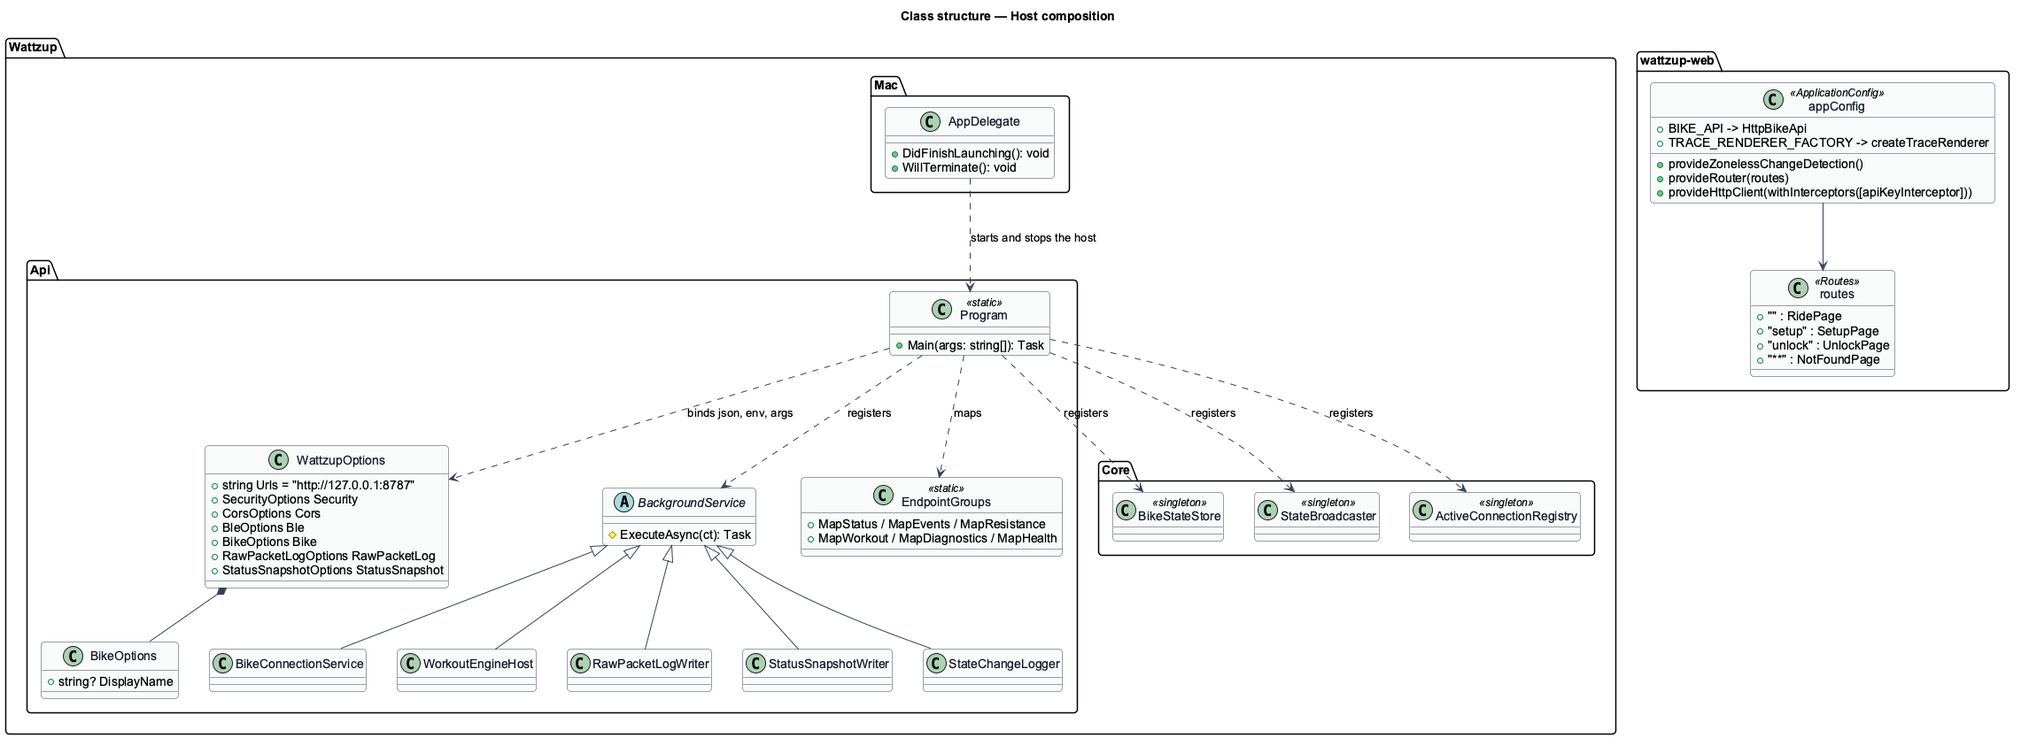
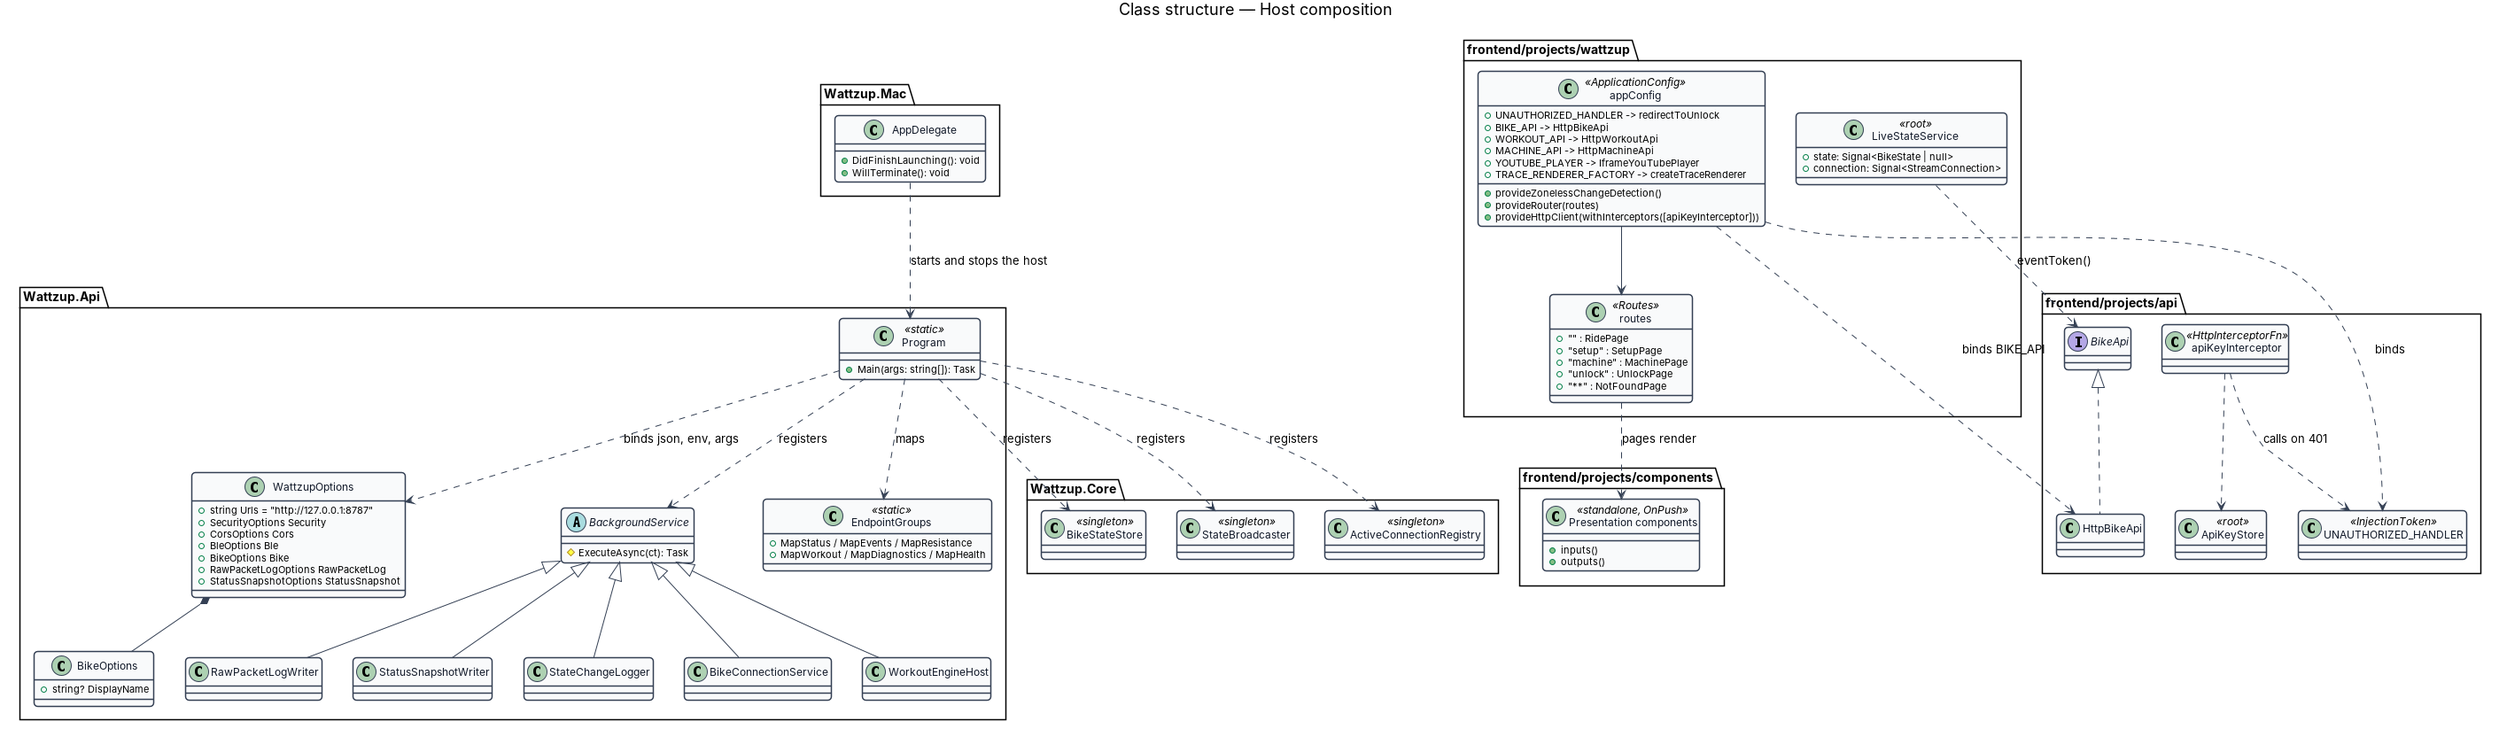
Docs: L2-044 criterion 6, ADR 0013 and the workspace design with its component mapping
Claude-Session: https://claude.ai/code/session_01LjZiMsSLHQhgqTqbDsDnzS

diff --git a/docs/detailed-designs/platform/host-and-structure/README.md b/docs/detailed-designs/platform/host-and-structure/README.md
@@ -29,9 +29,12 @@ wattzup/
 │   │   └── Wattzup.Core/  Wattzup.Api/  Wattzup.Mac/
 │   └── tests/
 │       └── Wattzup.Protocol.Tests/  Wattzup.Core.Tests/  Wattzup.Api.AcceptanceTests/
-├── frontend/
-│   ├── src/app/{api,core,dashboard}/, src/app/app.config.ts
-│   ├── e2e/ (fixtures/, pages/, specs)
+├── frontend/                    one Angular workspace (ADR 0013)
+│   ├── projects/
+│   │   ├── components/src/{lib,styles}/, public-api.ts   presentation components, SCSS partials
+│   │   ├── api/src/{lib,generated}/, public-api.ts        types, contracts, tokens, HTTP, interceptor
+│   │   └── wattzup/src/app/{core,dashboard}/, app.config.ts   pages, dialogs, services, helpers
+│   ├── e2e/ (fixtures/, pages/, specs), scripts/, public/
 │   └── proxy.conf.json
 └── docs/
 ```
@@ -81,23 +84,34 @@ Every project builds with the plain .NET SDK (ADR 0008). CI builds every project
   This realises L2-039, recorded in `discover-and-connect-bike`.
 - **Static hosting** — `UseStaticFiles` serves `wwwroot`, the Angular `dist/wattzup/browser` output copied at publish. The `AppShell` middleware, at the end of the pipeline, handles requests no endpoint matched: it serves `index.html` for `/` and every client route, excluding `/api`, `/health`, `/openapi` and paths with a file extension (L2-044). It is middleware rather than `MapFallbackToFile` because a catch-all fallback endpoint would take part in routing and replace the 415 and 405 answers of known endpoints, and because `index.html` must be rewritten per response with the style nonce. An unknown `/api/*` path answers a 404 ProblemDetails, while an unknown client route loads the app, which shows the not-found page (L2-056). `index.html` is served with the per-response CSP style nonce described in `secure-api`.
 
-Angular application `wattzup` in `frontend/` (L2-044):
+Angular workspace in `frontend/` (L2-044, ADR 0013). One `angular.json` holds three projects, all under `projects/`, generated with the Angular CLI:
 
+| Project | Type | Holds | May depend on |
+|---|---|---|---|
+| `components` | library, prefix `wz` | Every presentation component, one folder each under `src/lib/`, named as the design-system component it renders, and the design-system SCSS partials under `src/styles/design-system/` | `@wattzup/api`, for types only |
+| `api` | library, prefix `wz` | The generated OpenAPI types (`src/generated/schema.d.ts`), the type aliases (`api-types.ts`), the contracts `BikeApi`, `WorkoutApi`, `MachineApi` with their tokens `BIKE_API`, `WORKOUT_API`, `MACHINE_API`, the HTTP implementations (`http-api.ts`), `apiKeyInterceptor` with the `UNAUTHORIZED_HANDLER` token, `ApiKeyStore`, `SafeStorage`, and the event-stream type `StreamConnection` | nothing in the workspace |
+| `wattzup` | application, prefix `wz` | Pages, dialogs and orchestrating components under `src/app/dashboard/`; services, stores and pure helpers under `src/app/core/`; routes and `app.config.ts`; `main.ts`, `index.html`, `tokens.css`, `styles.scss` | `@wattzup/components`, `@wattzup/api` |
+
+- **Path aliases** — `frontend/tsconfig.json` maps `@wattzup/components` and `@wattzup/api` to each library's `src/public-api.ts`. The app compiles library source directly, so `ng serve`, `ng test` and tree-shaking need no library build. The libraries are not published and have no `ng-packagr` target.
+- **Dependency direction** — an ESLint `no-restricted-imports` rule in `frontend/eslint.config.js` rejects an import of the app from either library, of `@wattzup/components` from `api`, and a value import of `@wattzup/api` from `components`. Relative imports never cross a project.
+- **Presentation components** — standalone, `ChangeDetectionStrategy.OnPush`, inputs and outputs only. A component injects only framework services (`ElementRef`, `Injector`, the CDK `DialogRef`), never an app service, an API token or the router. The type of each input is exported with the component from `public-api.ts`; the app's helpers that compute it import it from `@wattzup/components`.
 - Current Angular version, standalone components only, `ChangeDetectionStrategy.OnPush` everywhere, signals for state, and zoneless change detection (`provideZonelessChangeDetection`).
-- Each component is `name.ts` + `name.html` + `name.scss` with `templateUrl` and `styleUrl`, selector `wz-<name>`, in its own folder under `src/app/dashboard/`. Each stylesheet is one encapsulated BEM block named as in the mocks.
-- **`app.config.ts`** — composition root.
-  - It provides the router with the routes `/` (`RidePage`), `/setup` (workouts), `/unlock` (`UnlockPage`) and `**` (`NotFoundPage`).
-  - It provides `HttpClient` with `withInterceptors([apiKeyInterceptor])`, the `BIKE_API` token bound to `HttpBikeApi`, and `TRACE_RENDERER_FACTORY` bound to `createTraceRenderer`.
-- `src/app/core/` holds the services and pure helpers with their unit tests:
-  - live state and API: `LiveStateService`, `BikeApi` with its `BIKE_API` token, `HttpBikeApi`, `ApiKeyStore`, `apiKeyInterceptor`, `safeReturnUrl`;
+- Each component is `name.ts` + `name.html` + `name.scss` with `templateUrl` and `styleUrl`, selector `wz-<name>`, in its own folder. Each stylesheet is one encapsulated BEM block named as in the mocks. Every project's `stylePreprocessorOptions.includePaths` is `projects/components/src/styles`, so a stylesheet reads a partial as `@use 'design-system/btn'`.
+- **`app.config.ts`** — the composition root, in the app and nowhere else.
+  - It provides the router with the routes `/` (`RidePage`), `/setup` (workouts), `/machine` (`MachinePage`), `/unlock` (`UnlockPage`) and `**` (`NotFoundPage`).
+  - It provides `HttpClient` with `withInterceptors([apiKeyInterceptor])`, binds `UNAUTHORIZED_HANDLER` to the app's redirect to `/unlock?returnUrl=…` (L2-055), and binds `BIKE_API`, `WORKOUT_API` and `MACHINE_API` to `HttpBikeApi`, `HttpWorkoutApi` and `HttpMachineApi`, and `YOUTUBE_PLAYER` to `IframeYouTubePlayer`.
+- `projects/wattzup/src/app/core/` holds the services and pure helpers with their unit tests:
+  - live state: `LiveStateService`, the one owner of the `EventSource` and its reconnect policy (L2-044 criterion 2), and `safeReturnUrl`;
   - dialogs and notifications: `DialogLauncher`, `ConnectionBannerService`, `ToastService`, `toastQueue`, `diagnosticsReport`;
-  - dashboard helpers: `connectionStatus`, `rideViewState`, `powerDelta`, `metricFormat`, `estimateWatts`;
+  - dashboard helpers: `connectionStatus`, `rideViewState`, `powerDelta`, `metricFormat`, `estimateWatts`, `commandLogEntries`, `metricItems`;
   - the trace: `FrameScheduler`, `MotionPreference`, `TraceRenderer`, `createTraceRenderer`, `TraceRendererStatus`, `traceGeometry`, `PowerTraceStore`;
   - the workout helpers named in the workouts designs.
-- `src/app/api/` holds types generated from `/openapi/v1.json` by `openapi-typescript`. It is never hand-edited. CI regenerates it and fails on a diff.
+- `projects/api/src/generated/schema.d.ts` is generated from `/openapi/v1.json` by `openapi-typescript` (`npm run generate:api`). It is never hand-edited. CI regenerates it and fails on a diff. `api-types.ts` is the only module that names its types.
+- **Unit tests** — each project has a `test` target (`@angular/build:unit-test`, Vitest, jsdom). Specs sit beside their code. `npm test` runs `ng test`, which runs all three targets.
+- **Build output** — `npm run build` runs `ng build wattzup` to `frontend/dist/wattzup/browser`, then `scripts/check-bundle-size.mjs`. `npm run build:api` copies that folder to `backend/src/Wattzup.Api/wwwroot`.
 - `proxy.conf.json` forwards `/api` to `127.0.0.1:8787` during `ng serve`.
 - **Fonts** (ADR 0005) — Inter, Archivo and JetBrains Mono ship as Latin-subset WOFF2 variable fonts under `frontend/public/fonts/`, with their SIL Open Font License 1.1 files beside them. The global foundations declare them with `@font-face` and `font-display: swap`. No font is loaded from a CDN, which the `font-src 'self'` policy enforces.
-- **Budgets** — `angular.json` sets the `initial` budget to an error at 300 KB, and CI measures the gzipped size with `gzip -9` (L2-044). Fonts count against the build size but not the JavaScript budget.
+- **Budgets** — `scripts/check-bundle-size.mjs` fails `npm run build` when the initial files listed in `index.html` exceed 300 KB gzipped (L2-044 criterion 5). Angular's own raw-byte budgets in `angular.json` remain as an early warning. Fonts count against the build size but not the JavaScript budget.
 - **Global styles** — foundations only: tokens from `docs/design-system/tokens/`, `@font-face`, reset and utilities. Components read tokens by role, never by hex value.
 
 ## Requirements
@@ -138,3 +152,58 @@ The projects form an inward-pointing dependency graph with `Wattzup.Api` at the 
 The host binds, starts background services without blocking, serves the SPA and API, and on stop shuts everything down within 5 s (L2-042, L2-044).
 
 ![Sequence diagram for host lifecycle](diagrams/sequence-host-lifecycle.png)
+
+## Appendix: component mapping (ADR 0013)
+
+Every folder that was in `frontend/src/app/dashboard/`, its project and its name there. *Part of* means the design system documents it inside another component's page; it keeps its own name and BEM block. *Lifted* names the value the parent now computes and passes in, so the component injects nothing of the app's.
+
+| Former folder | Project | Name | Design-system component | Notes |
+|---|---|---|---|---|
+| `alert` | `components` | `alert` | Alert and banner | |
+| `auth-card` | `components` | `auth-card` | Page layout (part) | The centred single-card shell of `/unlock` |
+| `cmd-log` | `components` | `command-log` | Command log | Lifted: the title and the entries (`commandLogEntries`) |
+| `dialog-shell` | `components` | `dialog` | Dialog | Injects only the CDK `DialogRef` |
+| `effort-row` | `components` | `effort-row` | Effort row (page added) | Lifted: pace, incline and the step limits (`effortRowView`) |
+| `form-summary` | `components` | `form-summary` | Form layout (part) | The error summary |
+| `icon` | `components` | `icon` | Iconography (foundation) | |
+| `incline-control` | `components` | `incline-control` | Speed and incline control (part) | |
+| `level-control` | `components` | `level-control` | Level control | Owns `ResistanceView` and `ControlsState` |
+| `level-picker` | `components` | `level-picker` | Level picker | Brings its key and pointer helper `level-picker-input` and its spec |
+| `level-slider` | `components` | `slider` | Slider | |
+| `load-error` | `components` | `empty-state` | Empty state | The loading-failed variant (block `empty`) |
+| `machine-card` | `components` | `machine-card` | Machine card (page added) | The radio card of `/machine`; owns `MachineCardView` and `CardStatus` |
+| `main-view-tabs` | `components` | `main-view-tabs` | Video ride-along (part) | Block `view-switch` |
+| `metrics-strip` | `components` | `metric-list` | Metric list | Lifted: the metric items (`metricItems`) |
+| `mode-cards` | `components` | `radio-group` | Radio group (mode cards) | |
+| `num-stepper` | `components` | `number-stepper` | Number stepper | |
+| `phase-banner` | `components` | `phase-banner` | Step-change banner | Lifted: the banner and the announcement from `CueDirector` |
+| `plan-note` | `components` | `plan-note` | Level control, Speed and incline control (part) | |
+| `plan-strip` | `components` | `plan-strip` | Video ride-along (part) | Block `profile--strip`. Lifted: the strip (`stripOf`) |
+| `presets` | `components` | `presets` | Chip (part) | The preset chip row |
+| `quick-speeds` | `components` | `quick-speeds` | Chip (part) | Lifted: the speeds (`QUICK_SPEEDS`) |
+| `readout` | `components` | `readout` | Readout | |
+| `ride-clock` | `components` | `ride-clock` | Ride clock | Lifted: elapsed and total text from `CountdownService` |
+| `ride-preview` | `components` | `ride-profile` | Ride profile | Owns the `RidePreview` view type |
+| `set-list` | `components` | `set-list` | Set list | Lifted: the set lines, the stretch rows and `full` |
+| `signal-bars` | `components` | `signal-bars` | Machine card (part) | |
+| `speed-control` | `components` | `speed-control` | Speed and incline control | |
+| `status-line` | `components` | `status-line` | Status line | Lifted: the status (`connectionStatus`) and reduced motion |
+| `toast` | `components` | `toast` | Toast | Owns the `Toast` view type |
+| `toggles` | `components` | `switch` | Switch | |
+| `app-bar` | `wattzup` | `app-bar` | App bar | Injects `CueService`, `DialogLauncher`, `RideActions`, `ThemeService` |
+| `connection-banner` | `wattzup` | `connection-banner` | Alert and banner | Injects `ConnectionBannerService`, `LiveStateService` |
+| `interval` | `wattzup` | `interval` | Interval | Links to `/setup`; reads `CountdownService`, `CueDirector` |
+| `ride-overlay` | `wattzup` | `ride-overlay` | Overlay panel | Links to `/setup` |
+| `ride-trace` | `wattzup` | `ride-trace` | Power trace | Hosts the renderer; injects the trace stores and `TRACE_RENDERER_FACTORY` |
+| `ride-video` | `wattzup` | `ride-video` | Video ride-along | Injects `VideoSync` |
+| `video-link` | `wattzup` | `video-link` | Video ride-along | Injects `YOUTUBE_PLAYER` |
+| `toast-region` | `wattzup` | `toast-region` | Toast | Reads `ToastService` |
+| `diagnostics-dialog`, `edit-set-dialog`, `edit-stretch-dialog`, `end-ride-dialog`, `replace-ride-dialog` | `wattzup` | unchanged | Dialog | Orchestrating dialogs |
+| `machine-page`, `not-found-page`, `ride-page`, `setup-page`, `unlock-page` | `wattzup` | unchanged | Page layout | Routed pages |
+| `design-system/` (SCSS partials) | `components` | `src/styles/design-system/` | Foundations and partials | |
+
+## Open questions
+
+- Design-system components with no Angular component today (button, chip, link, badge, tooltip, skeleton, spinner, progress bar, description list) stay SCSS partials in `components`. Making them components is deferred.
+- `interval`, `ride-overlay`, `ride-trace`, `ride-video` and `app-bar` render design-system components but orchestrate; splitting each into an app container and a `components` part is deferred.
+- The libraries are not published and have no Storybook or gallery; deferred.

diff --git a/docs/adr/0013-angular-workspace-with-libraries.md b/docs/adr/0013-angular-workspace-with-libraries.md
@@ -1,0 +1,92 @@
+# 0013. An Angular workspace with `components`, `api` and `wattzup` projects
+
+- **Status:** Accepted
+- **Date:** 2026-11-17
+
+## Context
+
+`frontend/` was a single-project Angular workspace. The app `wattzup` sat at the workspace root,
+about 50 component folders shared `src/app/dashboard/` whether they were small presentation parts
+(`readout`, `num-stepper`, `toast`) or routed pages and orchestrating dialogs, and
+`src/app/core/` mixed the code that talks to the backend with services and pure helpers. Nothing
+kept a presentation component from injecting a store, nothing kept the API code from knowing a
+route, and the components bore no consistent relation to the design system they render
+(`docs/design-system/`).
+
+L2-044 criterion 6 now asks for one workspace of three projects: a `components` library of
+presentation components that match the design system, an `api` library for everything about
+talking to the backend, and the `wattzup` application for everything else. What the rider sees,
+the routes, the BEM classes, the bundle budget and the production output path do not change.
+
+## Decision
+
+**Three projects, generated by the Angular CLI, compiled from source by the application.**
+
+- **Project locations.** All three are siblings under the workspace's `newProjectRoot`:
+  `frontend/projects/components/`, `frontend/projects/api/` and `frontend/projects/wattzup/`. The
+  app moves out of the workspace root so no project is special and each has its own `src/`,
+  tsconfigs and `test` target, which is the layout `ng generate library` produces. Workspace-level
+  tooling stays at the workspace root: `e2e/`, `scripts/`, `public/` (the fonts and machine photos,
+  used by the app's `assets`), `proxy.conf.json` and the Playwright configs. The app's global
+  styles (`tokens.css`, `styles.scss`) move with it to `projects/wattzup/src/`.
+- **How the app consumes the libraries.** TypeScript path aliases in `frontend/tsconfig.json`,
+  `@wattzup/components` and `@wattzup/api`, point at each library's `src/public-api.ts`. The app
+  compiles library source directly, so `ng serve`, `ng test` and tree-shaking work with no separate
+  library build. The libraries are not published, so they have no `ng-packagr` build target and
+  the CLI's `ng-package.json` and `tsconfig.lib.prod.json` are removed; a library build that no
+  script runs would only rot. This departs from the generated library layout in that one respect;
+  publishing would need a new ADR.
+- **Dependency direction.** `wattzup` → `components`, `wattzup` → `api`, `components` → `api`
+  for types only (a component may name a contract type such as `Machine` in an input), `api` →
+  nothing in the workspace. No library imports the application. An ESLint
+  `no-restricted-imports` rule in `frontend/eslint.config.js` enforces the direction; it is lint,
+  not a test.
+- **What counts as presentation.** A component that renders a design-system component from inputs
+  and reports interactions through outputs. It injects only framework services (`ElementRef`,
+  `Injector`, the CDK `DialogRef`), never an app service, an API token or the router, and uses no
+  `routerLink`. Where a component injected an app service only to read a value
+  (`phase-banner`, `ride-clock`, `status-line`) or called an app helper only to format its inputs
+  (`command-log`, `metric-list`, `effort-row`, `plan-strip`, `set-list`, `quick-speeds`), the
+  parent computes the value with the same helper and passes it in. The type of an input belongs to
+  the component and is exported from `@wattzup/components`; app helpers that build it import it
+  from there. A component whose job is orchestration stays in the app even when the design
+  system names it: `app-bar`, `connection-banner`, `interval` (it links to `/setup` and reads the
+  countdown), `ride-overlay` (it links to `/setup`), `ride-trace` (the power trace's renderer host),
+  `ride-video` and `video-link` (the YouTube player), `toast-region`, the pages and the dialogs.
+- **Component names.** A component in `components` takes the name of the design-system component it
+  renders, in its TypeScript class, file, folder and `wz-` selector: `num-stepper` →
+  `number-stepper`, `cmd-log` → `command-log`, `mode-cards` → `radio-group`, `metrics-strip` →
+  `metric-list`, `ride-preview` → `ride-profile`, `level-slider` → `slider`, `toggles` → `switch`,
+  `dialog-shell` → `dialog`, `load-error` → `empty-state`. A component the design system documents
+  as part of another keeps its own name and is filed as that component's part (for example
+  `incline-control` in speed-control, `presets` in chip). The BEM classes stay exactly as the mocks
+  have them, because the mocks and the e2e locators use them. Two components the design system
+  lacked, `machine-card` (with `signal-bars`) and `effort-row`, get design-system pages first. The
+  full mapping is in the host-and-structure design.
+- **Shared SCSS partials.** The design-system partials (`_btn.scss`, `_badge.scss`, `_field.scss`
+  and the rest) move to `projects/components/src/styles/design-system/`. The app's
+  `stylePreprocessorOptions.includePaths` points at `projects/components/src/styles`, so every
+  component keeps `@use 'design-system/btn'`.
+- **Where `LiveStateService` lives.** In the app, because it owns live state and the reconnect
+  policy (L2-044 criterion 2). The stream's connection type (`StreamConnection`) and the token call
+  (`BikeApi.eventToken`) are in `api`.
+- **The API-key interceptor's redirect.** `api` knows no route. The interceptor still adds
+  `X-Api-Key` and clears the key on a 401, then calls the `UNAUTHORIZED_HANDLER` injection token
+  that `api` declares. `app.config.ts` binds it to the app's redirect to `/unlock?returnUrl=…`
+  (L2-055). `SafeStorage`, which `ApiKeyStore` needs, moves to `api` and is exported for the app's
+  stores.
+- **Unit tests.** Each project has its own `test` target (`@angular/build:unit-test`, Vitest, as
+  before) and specs move with their code. `npm test` runs `ng test`, which runs every project's
+  target. `npm run build` builds `wattzup`, still to `dist/wattzup/browser`.
+
+## Consequences
+
+- A presentation component can be read, reviewed and reused without the app: its inputs and
+  outputs are its whole contract.
+- Pages compute a little more: view values that components used to fetch now arrive as inputs.
+  The helpers that compute them stay in the app with their unit tests.
+- Every path under `frontend/src/app/` in the docs moved; designs and ADRs name the new paths.
+- AGENTS.md's folder tree and Frontend rules describe the three projects. Its rule that pure helpers
+  live under `src/app/core/` now reads per project: helpers stay with the project that owns them.
+- Design-system components with no Angular counterpart today (button, chip, link, badge, tooltip,
+  skeleton) stay SCSS partials; turning them into components is a later change.

diff --git a/docs/specs/L2.md b/docs/specs/L2.md
@@ -703,12 +703,15 @@ The UI must meet WCAG 2.2 AA.
 ## L2-044: Frontend technology and structure
 **Traces to:** L1-012
 
+*(Changed: criterion 6 splits the frontend into a workspace of three projects; see ADR 0013.)*
+
 **Acceptance Criteria:**
 1. Given the frontend, then it is a current-version Angular app built from standalone components, with signals for state and OnPush change detection.
 2. Given live state, then one injectable service owns the `EventSource` connection and reconnect logic and exposes state as a read-only signal; API calls go through API services that each have a contract and an injection token, which components depend on.
 3. Given a production build, then its output is served by the ASP.NET Core backend from the same origin at `/`, with client routes falling back to `index.html`.
 4. Given the API, then the frontend uses TypeScript types generated from, or checked against, the backend's OpenAPI document.
 5. Given the production bundle, then the initial JavaScript is no more than 300 KB gzipped.
+6. Given the frontend, then it is one Angular workspace of three projects: a `components` library of presentation components, each matching a component of the design system, that take inputs, emit outputs and inject no application service, API token or router; an `api` library holding the generated API types, the API contracts with their injection tokens, their HTTP implementations, the API-key interceptor and the event-stream transport; and the `wattzup` application holding everything else, including the service that owns live state and the composition root; and neither library depends on the application.
 
 ---
 

diff --git a/docs/adr/README.md b/docs/adr/README.md
@@ -14,3 +14,4 @@
 | [0010](0010-treadmill-run-design.md) | The treadmill follows the Run design: the Stride's limits, estimates, and a machine page | Accepted, amended by 0011 |
 | [0011](0011-treadmill-behind-a-flag.md) | Treadmill support behind a flag | Accepted |
 | [0012](0012-youtube-ride-along.md) | Ride along to a YouTube video | Accepted |
+| [0013](0013-angular-workspace-with-libraries.md) | An Angular workspace with `components`, `api` and `wattzup` projects | Accepted |
